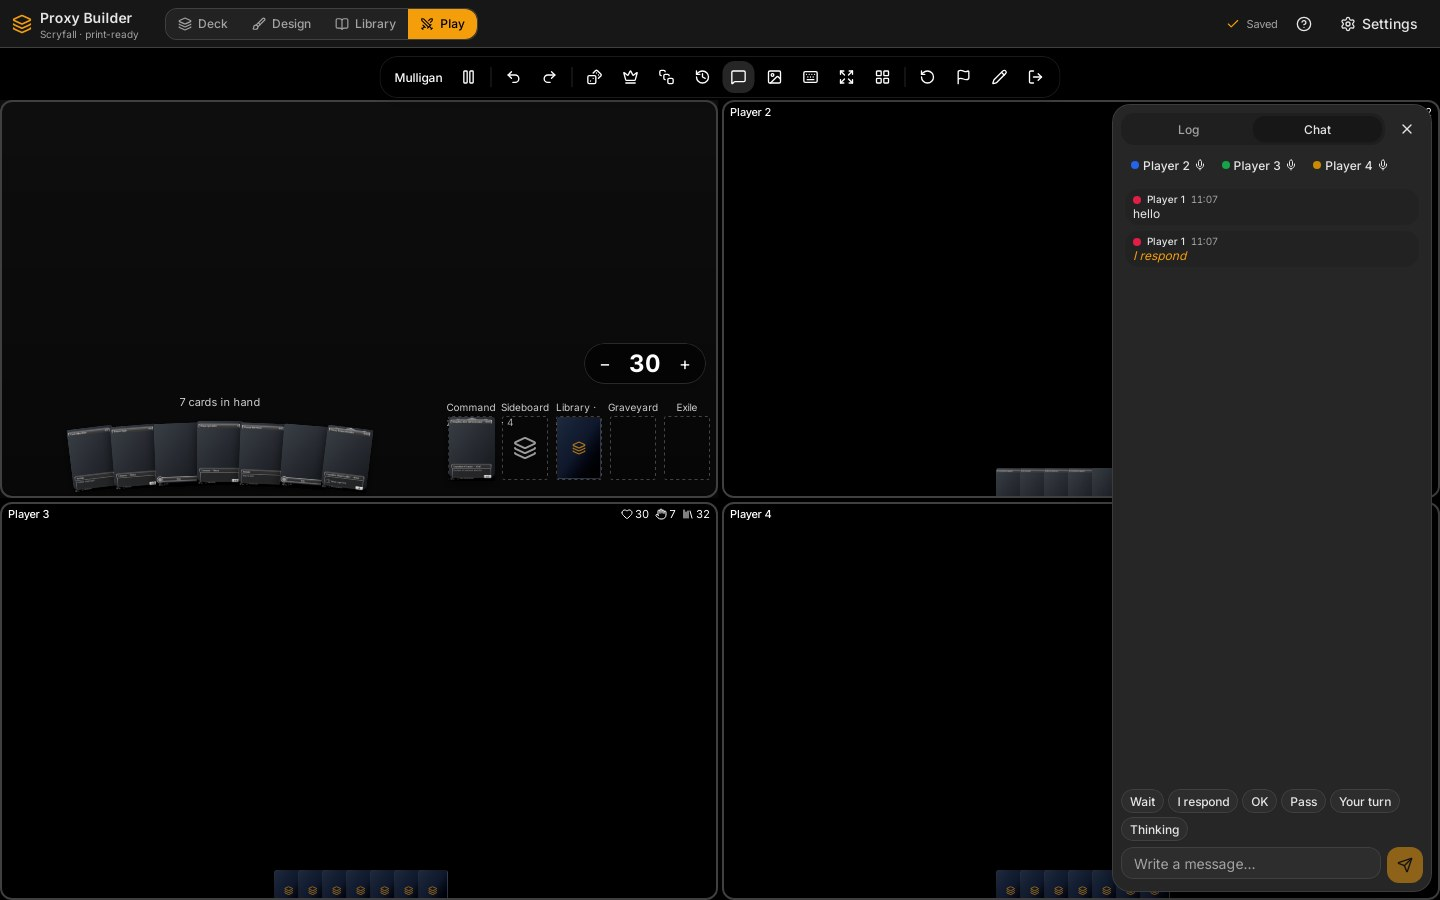
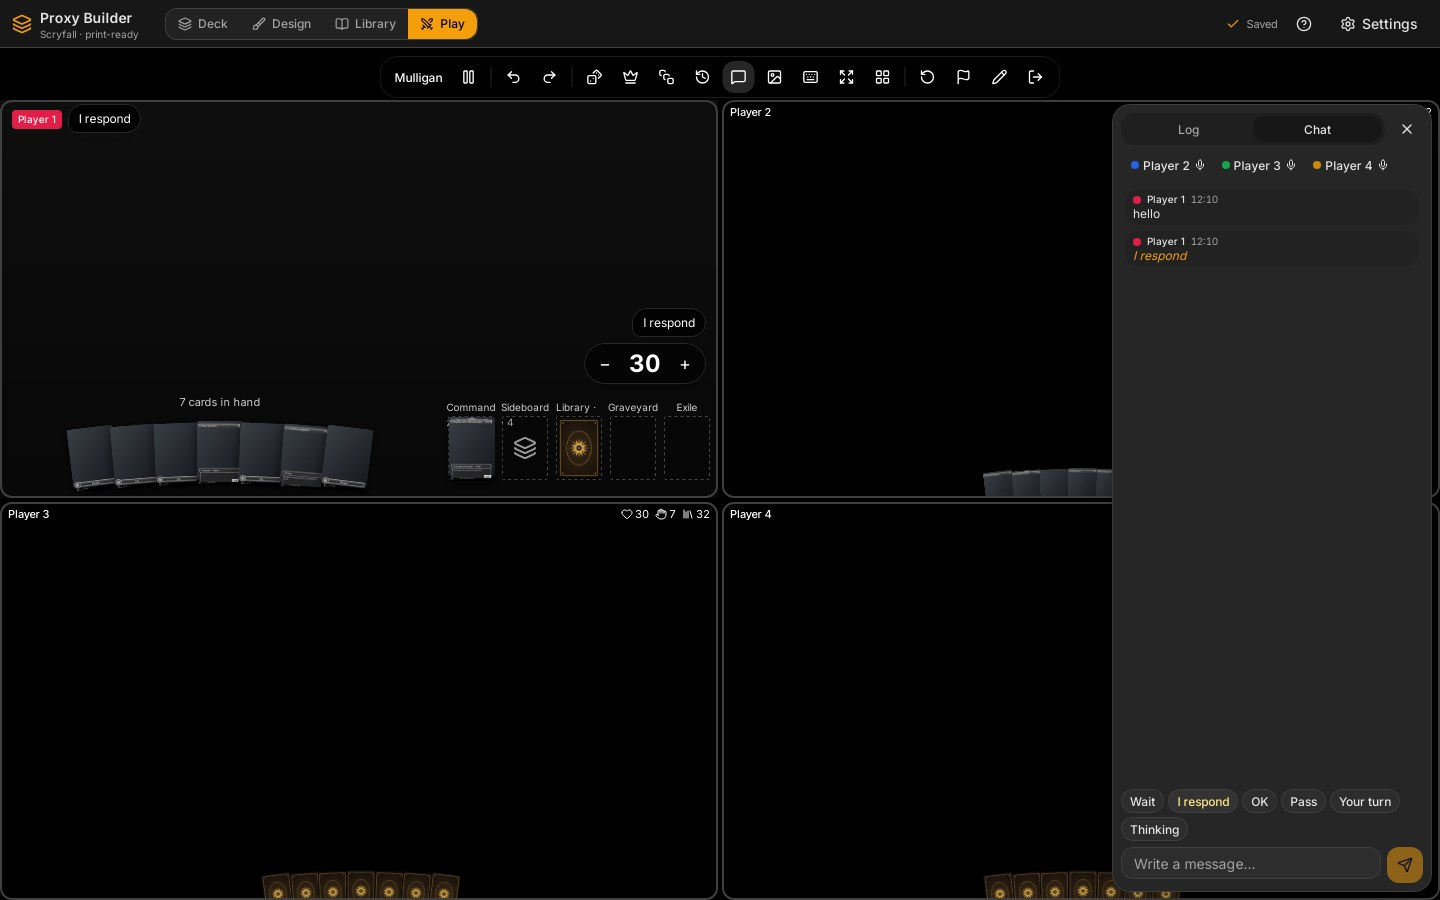
Fase I: la mesa usa el reverso de la app si el deck no tiene uno, capturas rehechas y plan cerrado
Claude-Session: https://claude.ai/code/session_01X7oLZsQ3STyBm3NGJHyhVB

diff --git a/src-tauri/src/mesa/preparar.rs b/src-tauri/src/mesa/preparar.rs
@@ -473,9 +473,17 @@ pub async fn deck_de_mesa<A: CardApi>(
         datos: &datos,
         colecciones: colecciones_por_id(state)?,
     };
+    // Sin reverso propio, el de la app (el mismo que sale en las hojas), no
+    // uno dibujado por la pantalla.
     let dorso = match &deck.default_back {
         Some(img) => ctx.de_blob(img, CardEdits::default(), true)?,
-        None => RefImagen::Generica,
+        None => match state.blobs.generic_back(&state.db) {
+            Ok(img) => ctx.de_blob(&img, CardEdits::default(), true)?,
+            Err(e) => {
+                tracing::warn!(codigo = ?e.code, "sin el reverso de la app para la mesa");
+                RefImagen::Generica
+            }
+        },
     };
     let total = secciones.len() as u32;
     let hechas = AtomicU32::new(0);
@@ -632,7 +640,9 @@ pub(crate) mod tests {
         let m = deck_de_mesa(&s, &SinRed, &deck, None, &|_, _| {})
             .await
             .unwrap();
-        assert_eq!(PINTADAS.load(Ordering::SeqCst) - antes, 3);
+        // Las tres caras y el reverso de la app (el deck no tiene uno propio).
+        assert_eq!(PINTADAS.load(Ordering::SeqCst) - antes, 4);
+        assert!(matches!(m.dorso, RefImagen::Propia { .. }), "{:?}", m.dorso);
         let caras: Vec<&RefImagen> = m.cartas.iter().map(|c| &c.origen.caras[0]).collect();
         assert!(
             matches!(caras[0], RefImagen::Scryfall { id, cara: 0, url } if id == ID && url.starts_with("https://cards.scryfall.io/"))
